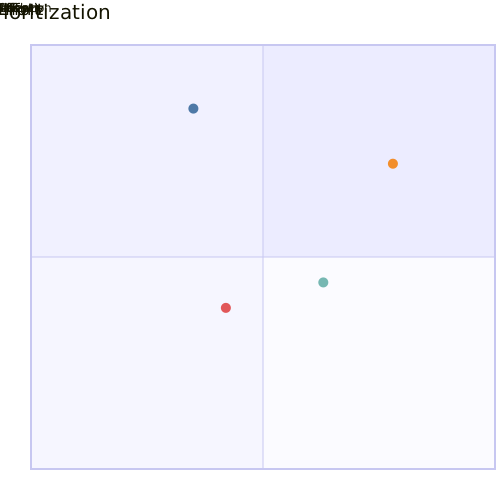
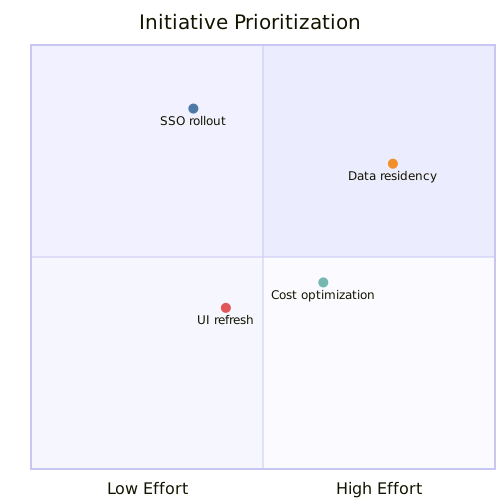
[render] apply text element transforms for xychart labels and skip radar viewBox expansion
- Apply translate/rotate transforms from <text> element transform attributes
  to correctly position XY chart axis labels and titles (previously rendered
  at origin due to x=0 y=0 with transform-only positioning)
- Add radar diagrams to skipViewBoxExpansion to preserve pre-calculated
  centered viewport coordinates
- Regenerate all sample PNGs and update conformance baseline

diff --git a/output.go b/output.go
@@ -187,7 +187,8 @@ func skipViewBoxExpansion(svg string) bool {
 	return strings.Contains(svg, `aria-roledescription="mindmap"`) ||
 		strings.Contains(svg, `class="mindmapDiagram"`) ||
 		strings.Contains(svg, `aria-roledescription="kanban"`) ||
-		strings.Contains(svg, `aria-roledescription="gitGraph"`)
+		strings.Contains(svg, `aria-roledescription="gitGraph"`) ||
+		strings.Contains(svg, `aria-roledescription="radar"`)
 }
 
 func shouldStripSVGTextForRasterizer(svg string) bool {
@@ -1053,6 +1054,14 @@ func overlaySVGText(img *image.NRGBA, svg string, width int, height int, viewBox
 		}
 		localX := x + parseSVGTextLength(rawDX, fontSize)
 		localY := y + parseSVGTextLength(rawDY, fontSize)
+
+		// Apply the text element's own transform (e.g. translate) to local coords.
+		// XY chart text elements use x=0 y=0 with transform="translate(px,py) rotate(r)".
+		if transformAttr := strings.TrimSpace(parseAttr(attrs, "transform")); transformAttr != "" {
+			elemTransform := parseSVGTransform(transformAttr)
+			localX, localY = elemTransform.apply(localX, localY)
+		}
+
 		pointX, pointY := ancestorTransform.apply(localX, localY)
 		px := transform.mapX(pointX, viewBox)
 		py := transform.mapY(pointY, viewBox)
